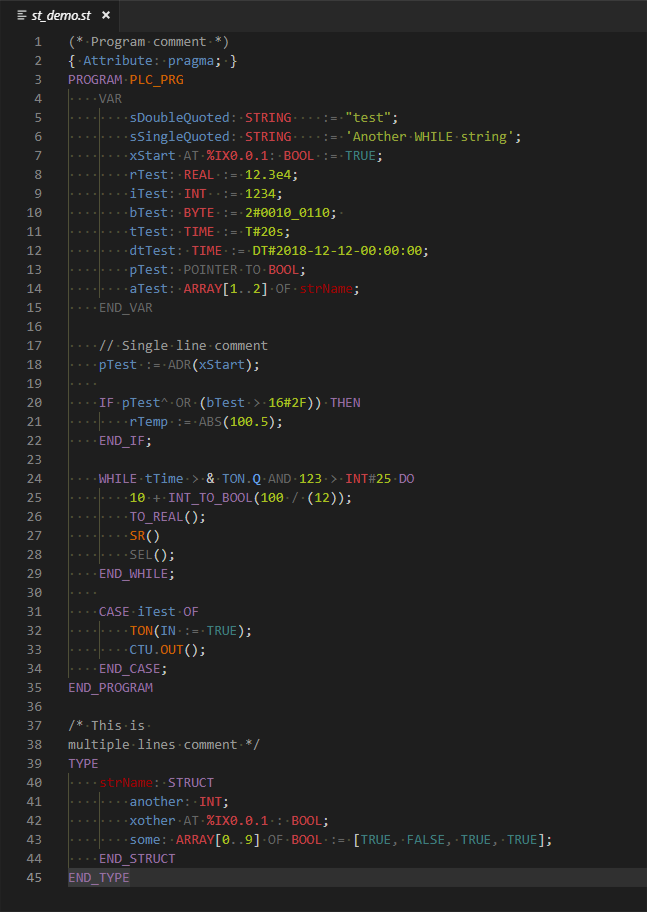
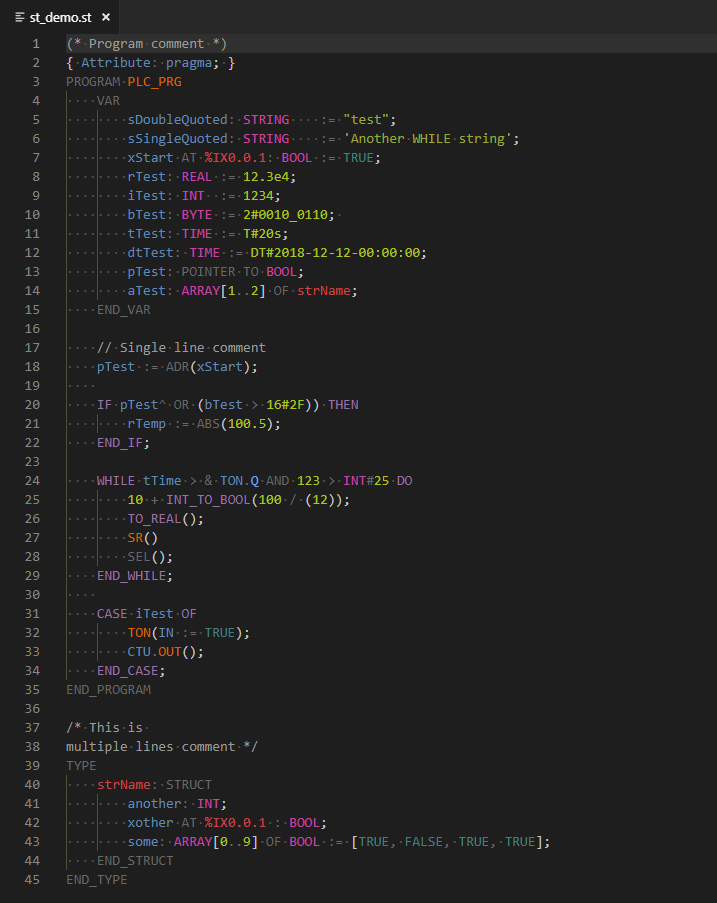
fix type declaration bleed, scope changes

Changed region(s): [[0.0, 0.0, 0.8037, 0.9922], [0.711, 0.8992, 0.8655, 0.9612]]

diff --git a/README.md b/README.md
@@ -8,6 +8,8 @@ Includes syntax highlight based on IEC 61131-3 draft, including namespaces, SFC 
 
 ![Structured Text syntax highlights example](https://raw.githubusercontent.com/msftrncs/vscode-st/msftrncs-branch/example.png)
 
+(Note example is using custom theme)
+
 ## Snippets
 
 Fast growing snippets library. All cycles, conditions and declarations.
